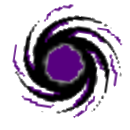
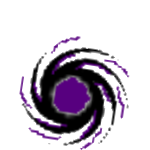
feat(main+sprites: finished_bh)

diff --git a/main.py b/main.py
@@ -23,9 +23,9 @@ class Game:
         self.all_sprites = pygame.sprite.Group()
         self.platforms = pygame.sprite.Group()
         self.black_holes = pygame.sprite.Group()
-        self.player1 = Player(1,1,20)
-        self.player2 = Player(2,1,20)
-        p1 = Platform(0,(HEIGHT-150), WIDTH, 200)
+        self.player1 = Player(1,1,15)
+        self.player2 = Player(2,1,15)
+        p1 = Platform(-100,(HEIGHT-150), WIDTH + 200, 200)
         p2 = Platform(100, 150, 300, 40)
         self.all_sprites.add(p1)
         self.all_sprites.add(p2)
@@ -54,10 +54,12 @@ class Game:
             self.player1.pos.y = plat_hit0[0].rect.top + 1
             self.player1.vel.y = 0
             self.player1.in_air = False
+            self.player1.jump_count = 0
         if plat_hit1:
             self.player2.pos.y = plat_hit1[0].rect.top + 1
             self.player2.vel.y = 0
             self.player2.in_air = False
+            self.player2.jump_count = 0
         #Player-Player collision
         if pygame.sprite.collide_rect(self.player1, self.player2):
             if self.player1.image == punch_frames_l[3] or self.player1.image == punch_frames_r[3]:
@@ -122,10 +124,12 @@ class Game:
             for holes in self.black_holes:
                 collision = pygame.sprite.spritecollide(holes, self.platforms, False)
                 if collision:
-                    holes.rect.bottom = collision[0].rect.top - 80
+                    holes.vel = 0
                     holes.gravity = 0
+                    holes.y = collision[0].rect.top
                     holes.in_air = False
                 if holes.in_air == False:
+                    #Blackhole-player collision
                     if holes.player_one:
                         collision2 = pygame.sprite.collide_rect(holes, self.player2)
                         if collision2:
@@ -154,15 +158,15 @@ class Game:
                 self.running = False
             if event.type == pygame.KEYDOWN:
                 if event.key == pygame.K_UP:
-                    if self.player1.in_air:
-                        pass
-                    else:
-                        self.player1.jump()
+                    if not self.player1.stunned:
+                        if self.player1.jump_count != 2:
+                            self.player1.jump()
+                            self.player1.jump_count += 1
                 if event.key == pygame.K_z:
-                    if self.player2.in_air:
-                        pass
-                    else:
-                        self.player2.jump()
+                    if not self.player2.stunned:
+                        if self.player2.jump_count != 2:
+                            self.player2.jump()
+                            self.player2.jump_count += 1
                 if event.key == pygame.K_KP0:
                     if not self.player1.blocking:
                         if self.player1.punching:
@@ -183,7 +187,19 @@ class Game:
                         self.player2.blocking = True
                 if event.key == pygame.K_h:
                     if (not self.player2.punching and not self.player2.blocking and not self.player2.stunned):
-                        black_hole = Black_hole(2,self.player2.rect.center[0], self.player2.rect.center[1]-20,'r')
+                        if self.player2.direc == 'r':
+                            black_hole = Black_hole(2,self.player2.rect.center[0], self.player2.rect.center[1]-20,'r')
+                        else:
+                            black_hole = Black_hole(2,self.player2.rect.center[0], self.player2.rect.center[1]-20,'l')
+                        black_hole.in_air = True
+                        self.black_holes.add(black_hole)
+                        self.all_sprites.add(black_hole)
+                if event.key == pygame.K_KP3:
+                    if (not self.player1.punching and not self.player1.blocking and not self.player1.stunned):
+                        if self.player1.direc == 'r':
+                            black_hole = Black_hole(1,self.player1.rect.center[0], self.player1.rect.center[1]-20,'r')
+                        else:
+                            black_hole = Black_hole(1,self.player1.rect.center[0], self.player1.rect.center[1]-20,'l')
                         black_hole.in_air = True
                         self.black_holes.add(black_hole)
                         self.all_sprites.add(black_hole)
@@ -194,8 +210,10 @@ class Game:
             if event.type == pygame.KEYUP:
                 if event.key == pygame.K_KP1:
                     self.player1.blocking = False
+                    self.player1.agility = self.player1.agility_original
                 if event.key == pygame.K_g:
                     self.player2.blocking = False
+                    self.player2.agility = self.player2.agility_original
                 if event.key == pygame.K_s:
                     self.player2.ducked = False
                     self.player2.agility = self.player2.agility_original

diff --git a/sprites.py b/sprites.py
@@ -42,6 +42,7 @@ class Player(pygame.sprite.Sprite):
         self.frame = 0
         self.punch_frame = 0
         self.stun_frame = 0
+        self.jump_count = 0
         
         self.image = idle_frames_r[0]
         self.rect = self.image.get_rect()
@@ -107,9 +108,11 @@ class Player(pygame.sprite.Sprite):
                 if self.vel.x > 0:
                     self.direc == 'r'
                     self.image = block_frame_r
+                    self.agility = 0.25
                 elif self.vel.x < 0:
                     self.direc == 'l'
-                    self.image = block_frame_l    
+                    self.image = block_frame_l  
+                    self.agility = 0.25  
                 
             elif self.punching == True:
                 punching_speed = 3
@@ -207,25 +210,29 @@ class Black_hole(pygame.sprite.Sprite):
             self.player_one = True
         else:
             self.player_one = False
-        self.player_suck = False
         self.x = x
         self.y = y
         self.direction = direction
         self.vel = 8
         self.gravity = -20
-        self.image = blackhole_air_frame_r[0]
+        self.image = blackhole_air_frame_r[0] 
         self.rect = self.image.get_rect()
-        self.rect.topleft = (x,y)
+        self.rect.midbottom = (self.x,self.y)
+        self.living_time = FPS*5
 
         self.proj_frame = 0
         self.ground_frame = 0
-            
+        self.spin_frame = 0
 
     def update(self):
-        shot_anim_speed = 5
+        self.rect.midbottom = (self.x,self.y)
+        shot_anim_speed = 4
         if self.in_air:
-            self.rect.x += self.vel
-            self.rect.y += self.gravity
+            if self.direction == 'r':
+                self.x += self.vel
+            else:
+                self.x -= self.vel
+            self.y += self.gravity
             self.gravity += 1
             self.proj_frame += 1
             self.image = blackhole_air_frame_r[self.proj_frame // ((ANIMATION_VEL+shot_anim_speed)+1)]
@@ -234,14 +241,26 @@ class Black_hole(pygame.sprite.Sprite):
         # if self.rect.topleft[0] > WIDTH:
             # self.active = False
         else:
+            spinning_speed = 5
+            self.spin_frame += 1
             self.ground_frame += 1
-            self.image = blackhole_ground_frame
-            if self.ground_frame == FPS*3:
+            self.image = blackhole_ground_frame[self.spin_frame // ((spinning_speed)+1)]
+            if self.spin_frame == ((len(blackhole_ground_frame)) * (spinning_speed)):
+                    self.spin_frame = 0
+            self.rect = self.image.get_rect()
+            self.rect.midbottom = (self.x,self.y)
+            if self.ground_frame == self.living_time:
                 self.active = False
         
-    def suck(self, player):
-        print(player.pos.x, player.pos.y)
-        print(self.rect.x, self.rect.y)
+    def suck(self, target):
+        target.acc = vec(0,0)
+        target.vel.y = 0
+        x_diff = target.pos.x - self.x
+        if x_diff > 0:
+            target.pos.x -= (x_diff/(self.living_time/2))
+        else:
+            target.pos.x -= (x_diff/(self.living_time/2))
+        target.vel.y = 0
 
         
 

diff --git a/images.py b/images.py
@@ -22,7 +22,7 @@ block_frame_l = pygame.transform.flip(block_frame_r, True, False)
 
 blackhole_air_frame_r = [pygame.image.load('graphics/players/louis/black_hole/bhproj01.png').convert_alpha(), pygame.image.load('graphics/players/louis/black_hole/bhproj02.png').convert_alpha(), pygame.image.load('graphics/players/louis/black_hole/bhproj03.png').convert_alpha(), pygame.image.load('graphics/players/louis/black_hole/bhproj04.png').convert_alpha()]
 blackhole_air_frame_l = [pygame.transform.flip(images, True, False) for images in blackhole_air_frame_r]
-blackhole_ground_frame = pygame.image.load('graphics/players/louis/black_hole/bh01.png').convert_alpha()
+blackhole_ground_frame = [pygame.image.load('graphics/players/louis/black_hole/bh01.png').convert_alpha(), pygame.image.load('graphics/players/louis/black_hole/bh02.png').convert_alpha(), pygame.image.load('graphics/players/louis/black_hole/bh03.png').convert_alpha(), pygame.image.load('graphics/players/louis/black_hole/bh04.png').convert_alpha()]
 
 stun_frame_r = pygame.image.load('graphics/players/louis/stunned.png').convert_alpha()
 stun_frame_l = pygame.transform.flip(stun_frame_r, True, False)
